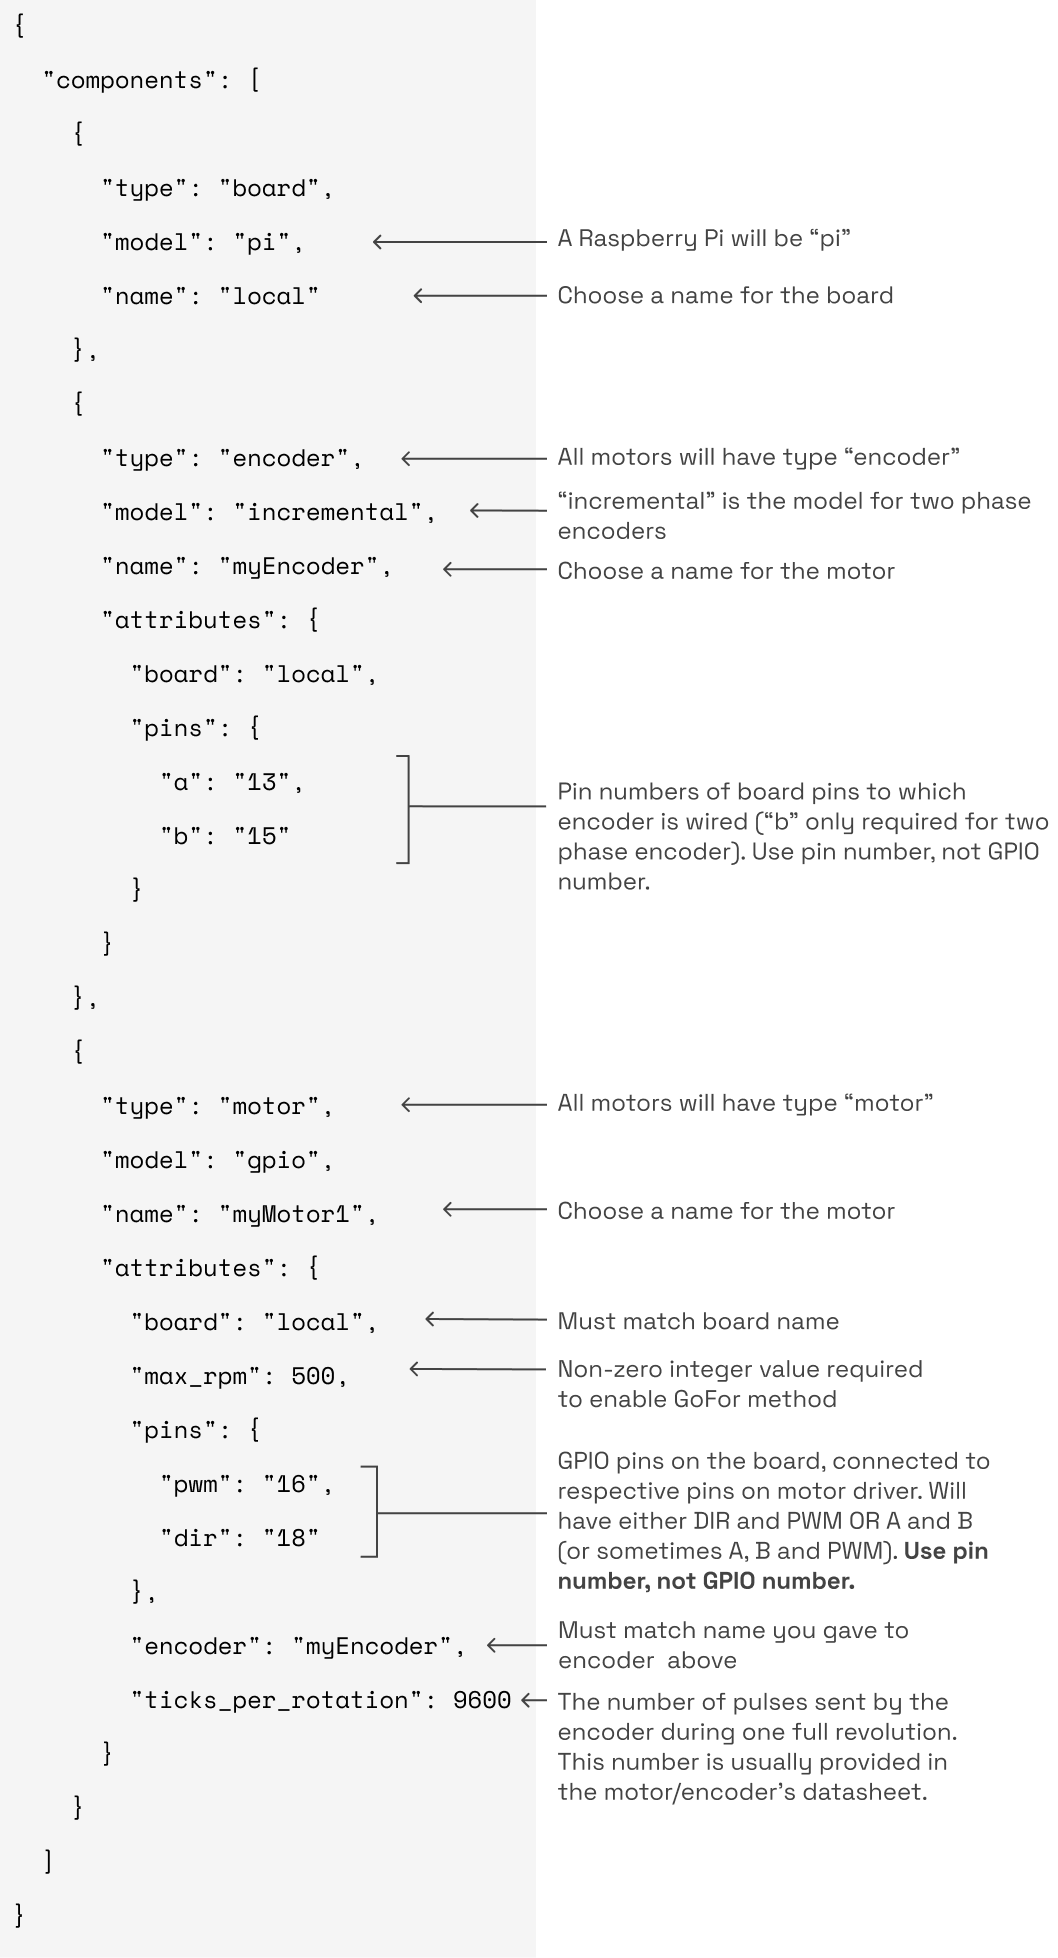
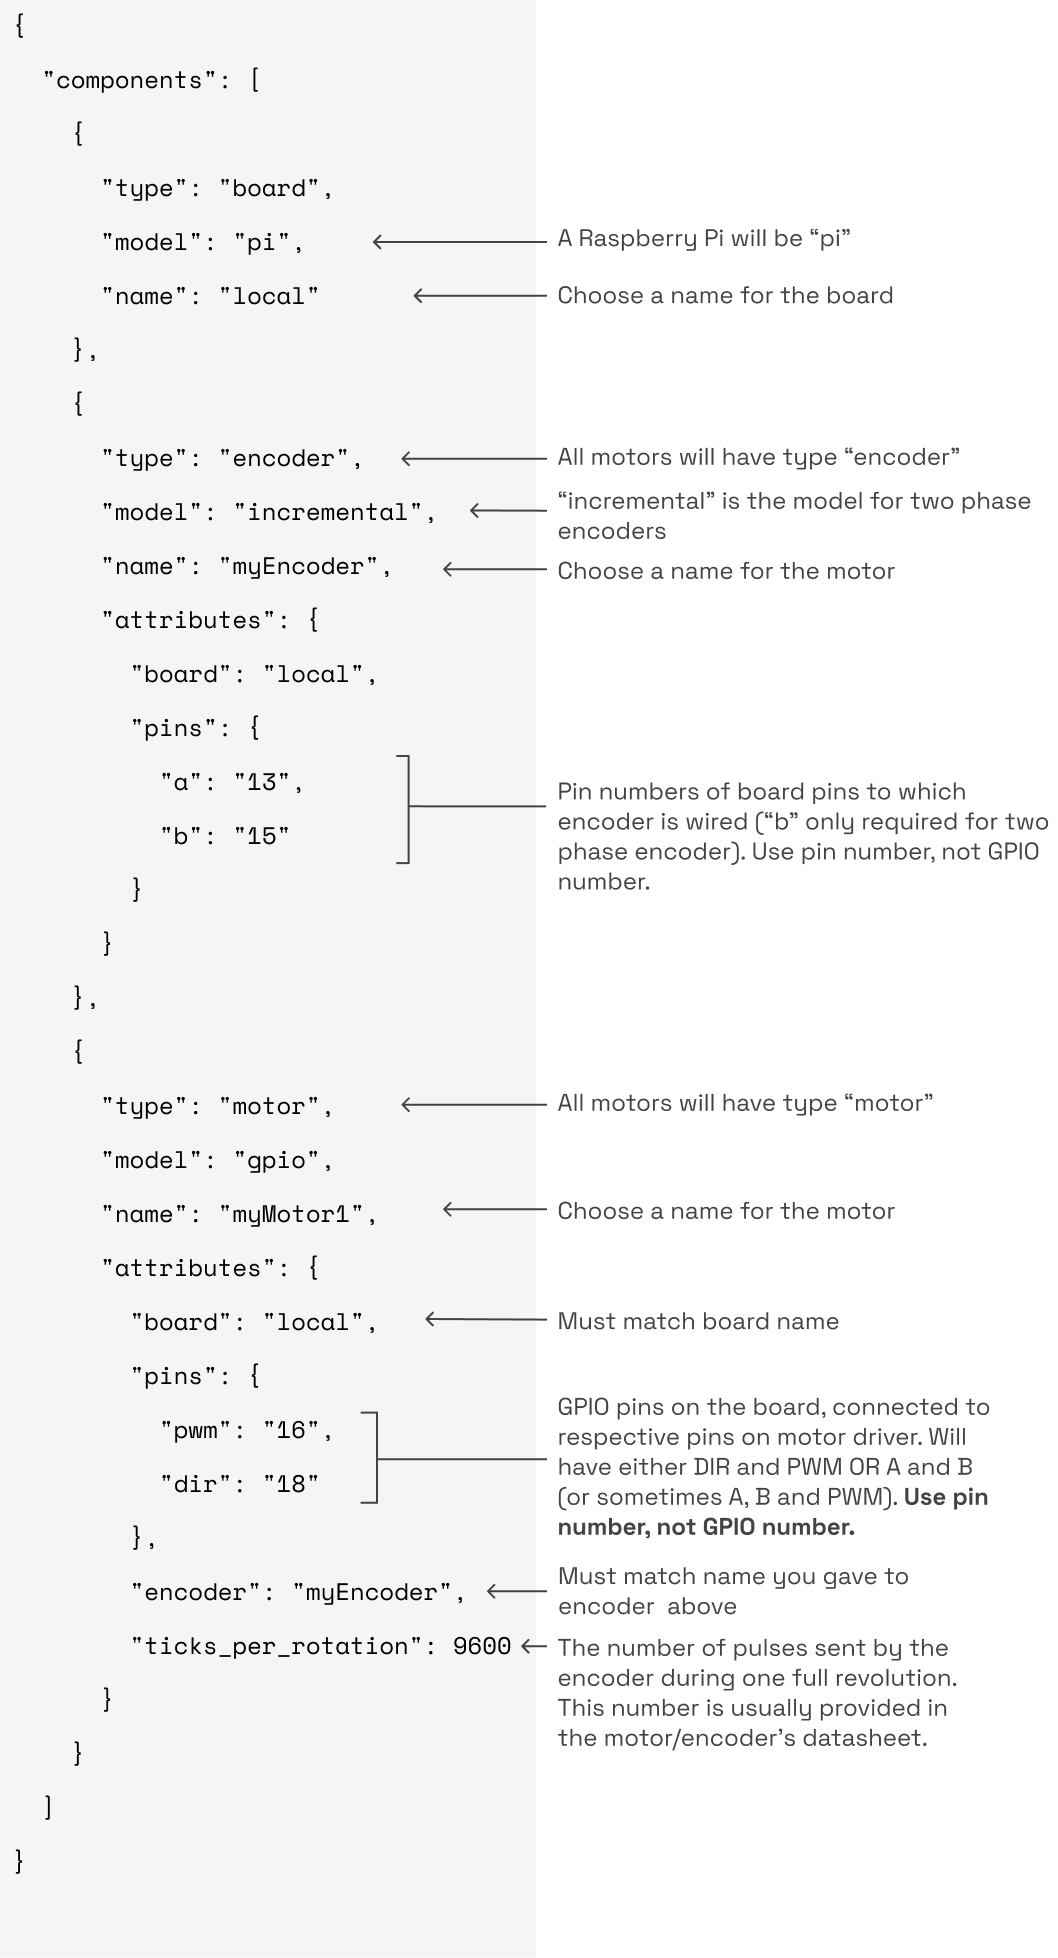
some of the api

diff --git a/docs/components/motor/_index.md b/docs/components/motor/_index.md
@@ -32,15 +32,26 @@ You'll also need a [board](/components/board/) to send signals to the motor driv
 
 Method Name | Golang | Python | Description
 ----------- | ------ | ------ | -----------
-[SetPower](#setpower)    | SetPower | set_power |
-[GoFor](#gofor) | GoFor  | [go_for](https://python.viam.dev/autoapi/viam/components/motor/index.html#viam.components.motor.Motor.go_for) | Spin the motor the specified number of revolutions at specified RPM.
-[GoTo](#goto) | GoTo   | go_to |
-[ResetZeroPosition](#resetzeroposition) | ResetZeroPosition | reset_zero_position |
-[GetPosition](#getposition) | GetPosition | get_position |
-[GetProperties](#getproperties) | GetProperties | get_properties |
-[Stop](#stop) | Stop | stop |
-[IsPowered](#ispowered) | IsPowered | is_powered |
-[IsMoving](#ismoving) | IsMoving | is_moving |
+[SetPower](#setpower) | [SetPower][go_motor] | [set_power][python_set_power] | Set the "percentage" (between -1 and 1) of power to send to the motor. 1 is full power; -1 is 100% power backwards.
+[GoFor](#gofor) | [GoFor][go_motor]  | [go_for][python_go_for] | Spin the motor the specified number of revolutions at specified RPM.
+[GoTo](#goto) | [GoTo][go_motor]   | [go_to][pthon_go_to] |
+[ResetZeroPosition](#resetzeroposition) | [ResetZeroPosition][go_motor] | [reset_zero_position][python_reset_zero_position] |
+[GetPosition](#getposition) | [GetPosition][go_motor] | [get_position][python_get_position] |
+[GetProperties](#getproperties) | [GetProperties][go_motor] | [get_properties][python_get_properties] |
+[Stop](#stop) | [Stop][go_motor] | [stop][python_stop] |
+[IsPowered](#ispowered) | [IsPowered][go_motor] | [is_powered][python_is_powered] |
+[IsMoving](#ismoving) | [IsMoving][go_motor] | [is_moving][python_is_moving] |
+
+[go_motor]: https://pkg.go.dev/go.viam.com/rdk/components/motor#Motor
+[python_set_power]: https://python.viam.dev/autoapi/viam/components/motor/index.html#viam.components.motor.Motor.set_power
+[python_go_for]: https://python.viam.dev/autoapi/viam/components/motor/index.html#viam.components.motor.Motor.go_for
+[pthon_go_to]: https://python.viam.dev/autoapi/viam/components/motor/index.html#viam.components.motor.Motor.go_to
+[python_reset_zero_position]: https://python.viam.dev/autoapi/viam/components/motor/index.html#viam.components.motor.Motor.reset_zero_position
+[python_get_position]: https://python.viam.dev/autoapi/viam/components/motor/index.html#viam.components.motor.Motor.get_position
+[python_get_properties]: https://python.viam.dev/autoapi/viam/components/motor/index.html#viam.components.motor.Motor.get_properties
+[python_stop]: https://python.viam.dev/autoapi/viam/components/motor/index.html#viam.components.motor.Motor.stop
+[python_is_powered]: https://python.viam.dev/autoapi/viam/components/motor/index.html#viam.components.motor.Motor.is_powered
+[python_is_moving]: https://python.viam.dev/autoapi/viam/components/motor/index.html#viam.components.motor.Motor.is_moving
 
 ## Configuration
 
@@ -148,20 +159,154 @@ m2.GoFor(context.Background(), 1000, 200, nil)
 
 ### API Details
 
+In addition to the information below, see the [Go SDK docs](https://pkg.go.dev/go.viam.com/rdk/components/motor#Motor)
+or [Python SDK docs](https://python.viam.dev/autoapi/viam/components/motor/index.html#).
+
 #### SetPower
+
+Set the "percentage" (between -1 and 1) of power to send to the motor.
+1 is full power; -1 is 100% power backwards.
+
+{{< tabs >}}
+{{% tab name="Python" %}}
+
+**Parameters:**
+
+- `power` (float): Power between -1 and 1. Negative is backwards.
+
+**Returns:**
+
+- None
+
+**Example usage:**
+
+```python
+myMotor = Motor.from_robot(robot = robot, name = 'my_motor')
+
+# Set the power to 40% forwards.
+await myMotor.set_power(power = 0.4)
+```
+
+{{% /tab %}}
+{{% tab name="Golang" %}}
+
+**Parameters:**
+
+- `ctx` (context):
+- `powerPct` (float64):
+- `extra` (map[string]interface{})
+
+**Returns:**
+
+- `error` (error): An error, if one occurred.
+
+**Example usage:**
+
+```go
+myMotor, err := motor.FromRobot(robot, "motor1")
+
+// Set the motor power to 40% forwards.
+myMotor.SetPower(context.Background(), 1, nil)
+
+```
+
+<!--
+{{% /tab %}}
+{{< /tabs >}}
 
 #### GoFor
 
+{{< tabs >}}
+{{% tab name="Python" %}}
+
+{{% /tab %}}
+{{% tab name="Golang" %}}
+
+{{% /tab %}}
+{{< /tabs >}}
+
 #### GoTo
+
+{{< tabs >}}
+{{% tab name="Python" %}}
+
+{{% /tab %}}
+
+{{% tab name="Golang" %}}
+
+{{% /tab %}}
+{{< /tabs >}}
 
 #### ResetZeroPosition
 
+{{< tabs >}}
+{{% tab name="Python" %}}
+
+{{% /tab %}}
+
+{{% tab name="Golang" %}}
+
+{{% /tab %}}
+{{< /tabs >}}
+
 #### GetPosition
+
+{{< tabs >}}
+{{% tab name="Python" %}}
+
+{{% /tab %}}
+
+{{% tab name="Golang" %}}
+
+{{% /tab %}}
+{{< /tabs >}}
 
 #### GetProperties
 
+{{< tabs >}}
+{{% tab name="Python" %}}
+
+{{% /tab %}}
+
+{{% tab name="Golang" %}}
+
+{{% /tab %}}
+{{< /tabs >}}
+
 #### Stop
+
+{{< tabs >}}
+{{% tab name="Python" %}}
+
+{{% /tab %}}
+
+{{% tab name="Golang" %}}
+
+{{% /tab %}}
+{{< /tabs >}}
 
 #### IsPowered
 
+{{< tabs >}}
+{{% tab name="Python" %}}
+
+{{% /tab %}}
+
+{{% tab name="Golang" %}}
+
+{{% /tab %}}
+{{< /tabs >}}
+
 #### IsMoving
+
+{{< tabs >}}
+{{% tab name="Python" %}}
+
+{{% /tab %}}
+
+{{% tab name="Golang" %}}
+
+{{% /tab %}}
+{{< /tabs >}}
+
+-->

diff --git a/docs/components/motor/encoded-motors.md b/docs/components/motor/encoded-motors.md
@@ -51,7 +51,6 @@ Here’s an example configuration:
       "model": "gpio",
       "attributes": {
         "board": "local",
-        "max_rpm": 500,
         "pins": {
           "pwm": "16",
           "dir": "18"
